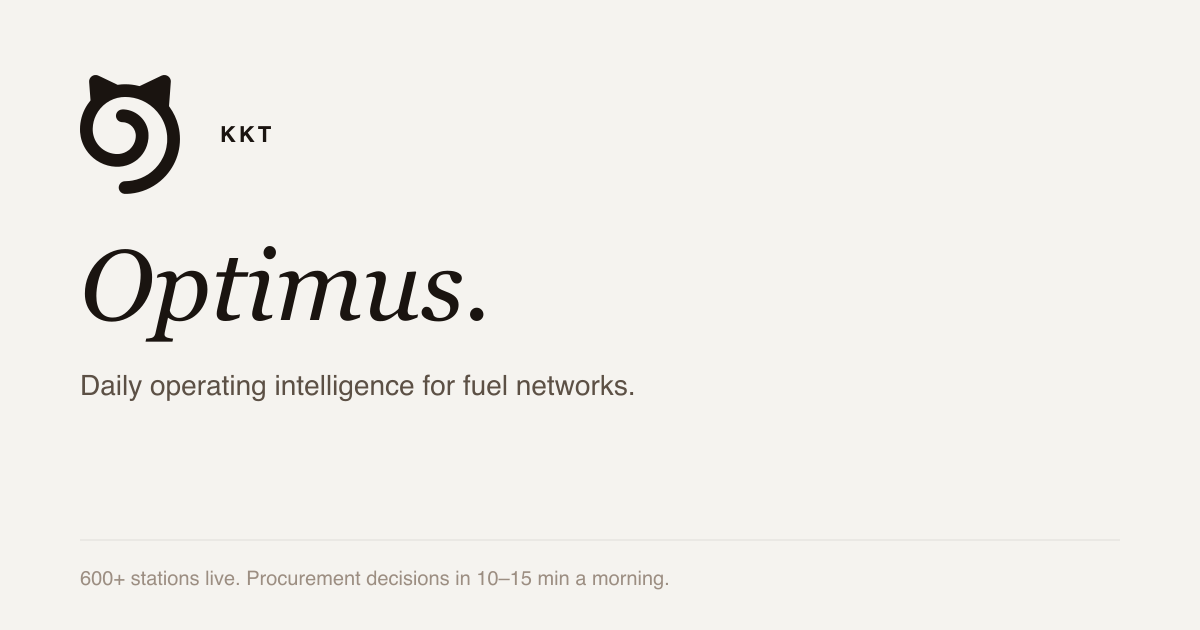
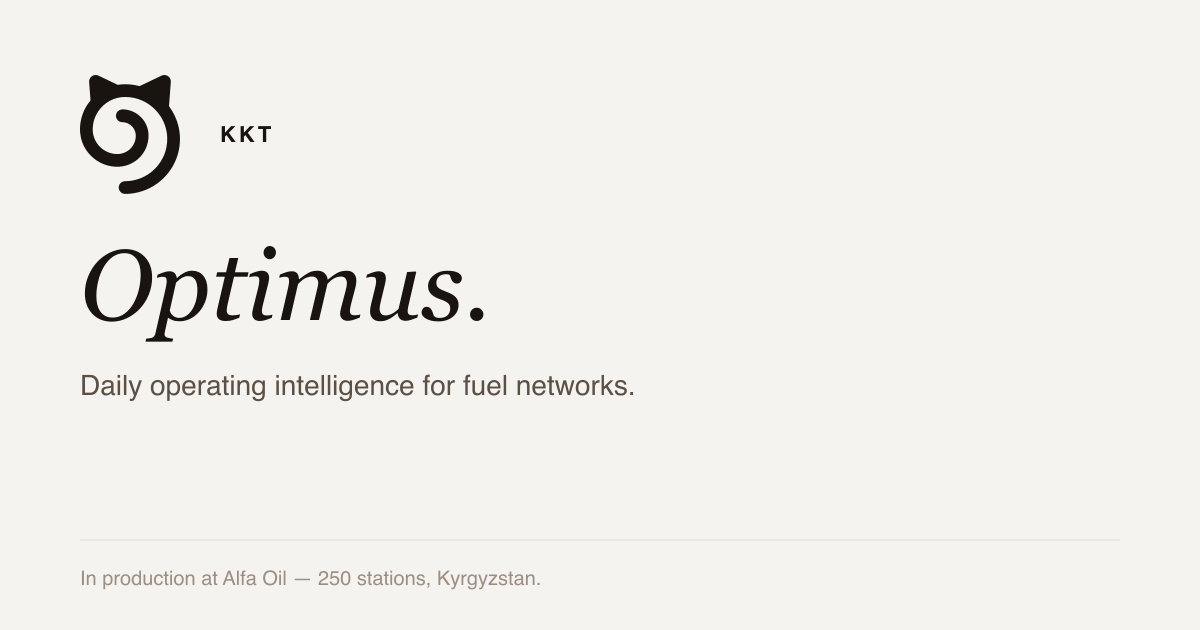
fix: remove false Alfa Oil data site-wide (George's review)
Alfa Oil is a ~250-station network, NOT 600+. Revenue ($500M) and fuel-
type count (11) were unverified and are removed entirely; the
'second Central Asian network (10 stations, 11 fuel types, 3 regions)'
claim was also unverified and removed. Corrected across pages, the
network map, schema, OG cards, llms.txt, and advisor knowledge. Kept
only the verified fact: ~250 stations, Kyrgyzstan, Optimus in production.
The $50M–$500M figure that remains is the client-ICP revenue band, not
an Alfa claim.

Changed region(s): [[0.0617, 0.9048, 0.555, 0.9349]]

diff --git a/scripts/generate-og.py b/scripts/generate-og.py
@@ -56,12 +56,12 @@ CAT_PATH = (
 # slug = filename (no extension), saved to public/og/<slug>.png
 PAGES = [
     ('home', 'AI that ships, not slides.', 'Senior PMO + AI delivery for mid-sized retailers and fuel networks. Tallinn, EU.',
-     'Live with Alfa Oil — $500M revenue, 600+ stations.'),
+     'In production at Alfa Oil — a 250-station fuel network, Kyrgyzstan.'),
     ('not-for-you', 'Is this a fit?', 'When we are the right partner — and when we are not.',
      'Reading this and still wanting to talk is a strong signal.'),
     ('optimus', 'Optimus.', 'Daily operating intelligence for fuel networks.',
-     '600+ stations live. Procurement decisions in 10–15 min a morning.'),
-    ('alfa-oil', 'Alfa Oil — Optimus operating across the network.', 'Kyrgyzstan · 600+ stations · $500M revenue.',
+     'In production at Alfa Oil — 250 stations, Kyrgyzstan.'),
+    ('alfa-oil', 'Alfa Oil — Optimus operating across the network.', 'Kyrgyzstan · 250-station independent fuel network.',
      'Pricing, margin steering, station-level operations under one roof.'),
     ('case-studies', 'What we shipped, what it moved.', 'Walkable investigations — not vendor decks.',
      'Five named clients. Real production work.'),
@@ -70,7 +70,7 @@ PAGES = [
     ('retail', 'For mid-sized retailers.', 'Margin, cash, customer ownership, decision speed.',
      '30 services across 11 retail domains in the open playbook.'),
     ('fuel-retail', 'For fuel networks.', 'Optimus is the operating engine. Around it, four common starting points.',
-     '600+ stations live on Optimus today.'),
+     'Optimus in production at Alfa Oil, Kyrgyzstan.'),
     ('about', 'Kitty Kat Technologies.', 'A senior PMO and AI delivery firm. Tallinn, Estonia.',
      'AI earns its place by moving margin, cash, availability, customer value.'),
     ('contact', 'Book a diagnostic.', 'Two weeks, fixed shape. Decision-grade readout.',

diff --git a/public/api/knowledge/04-optimus.md b/public/api/knowledge/04-optimus.md
@@ -70,16 +70,13 @@ never depends on the web interface.
 
 ## Live deployments
 
-Two deployments at very different scales — same product, same engine,
-configured for the deployment.
+Optimus is in production at **Alfa Oil** (also branded Red Petrol) — an
+independent fuel network in Kyrgyzstan, ~250 stations. Optimus runs
+across the network for procurement and margin. `/case-studies/alfa-oil`.
 
-1. **Alfa Oil** (also branded Red Petrol) — Kyrgyzstan. 600+ stations,
-   $500M revenue. Optimus operating across the full network.
-   `/case-studies/alfa-oil`.
-
-2. **Central Asian fuel network** — 10 stations, 11 fuel types, 3
-   regions. Smaller end of the range, same engine. (Walkable case
-   study in editorial — depth depends on customer consent tier.)
+(Do not state a revenue figure, a fuel-type count, or a second
+deployment — those were unverified and have been removed. Only "~250
+stations, Kyrgyzstan" is confirmed.)
 
 ## What changes after Optimus ships
 

diff --git a/public/api/knowledge/00-base.md b/public/api/knowledge/00-base.md
@@ -46,8 +46,8 @@ Three beats. Stop at three.
 > the head of supply opens it at 8 AM, works through the morning's
 > procurement decisions in 10–15 minutes, then walks away.
 >
-> Live at Alfa Oil (Red Petrol) — 600+ stations, $500M revenue — and
-> at a smaller Central Asian network. Same engine, different scale.
+> Live at Alfa Oil (Red Petrol) — a 250-station independent fuel
+> network in Kyrgyzstan.
 >
 > Full surface on /solutions/optimus.
 

diff --git a/public/api/knowledge/05-cases.md b/public/api/knowledge/05-cases.md
@@ -10,8 +10,7 @@ varying depth.
 
 - **Industry:** Fuel retail
 - **Region:** Kyrgyzstan, Central Asia
-- **Network:** 600+ stations, 11 fuel types
-- **Revenue:** $500M annual
+- **Network:** ~250 stations, Kyrgyzstan
 - **Status:** Live, in production
 - **Engagement:** Optimus operating across the full network — pricing,
   margin steering, station-level operations, supplier relationships.

diff --git a/public/api/knowledge/01-firm.md b/public/api/knowledge/01-firm.md
@@ -15,7 +15,7 @@ retailers and fuel networks. Tallinn, EU.
 ## Where we work
 
 - **Mid-sized retailers** ($50M–$500M revenue range)
-- **Fuel networks** (any scale; from 10 stations to 600+)
+- **Fuel networks** (independent networks; in production at Alfa Oil, ~250 stations)
 - **Geography:** Central Europe, EU, CIS
 
 ## What makes us different
